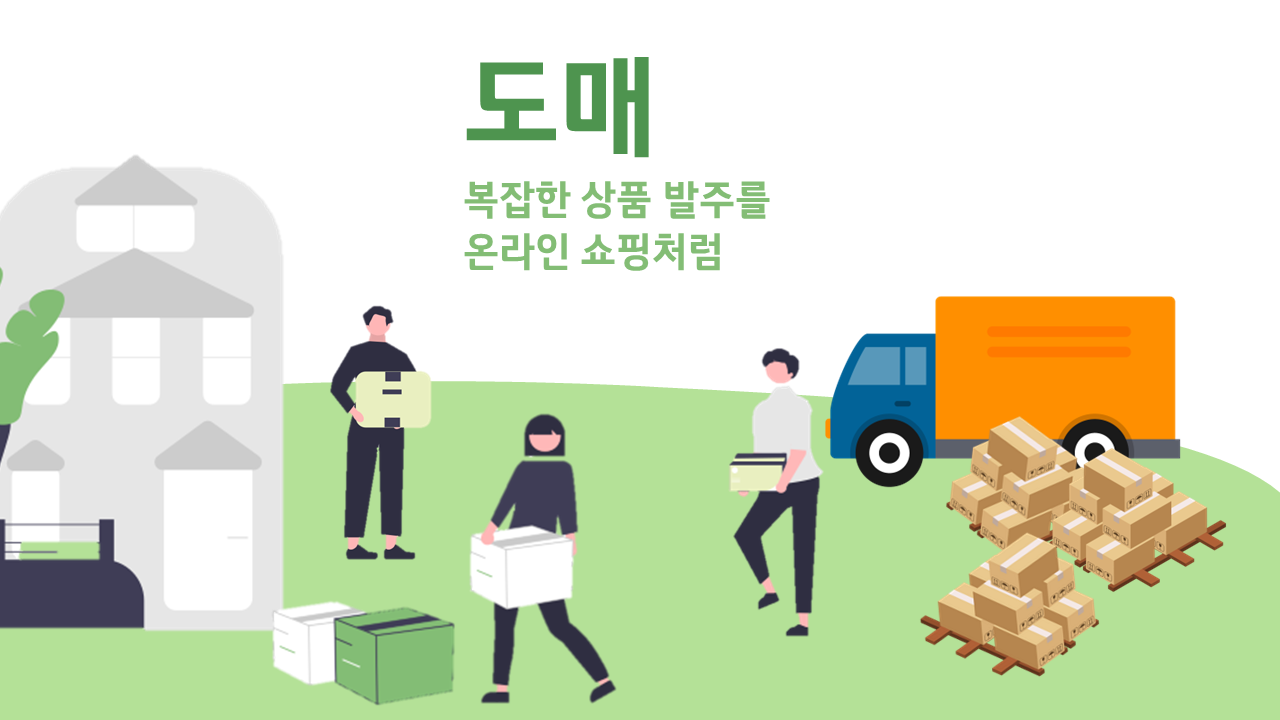
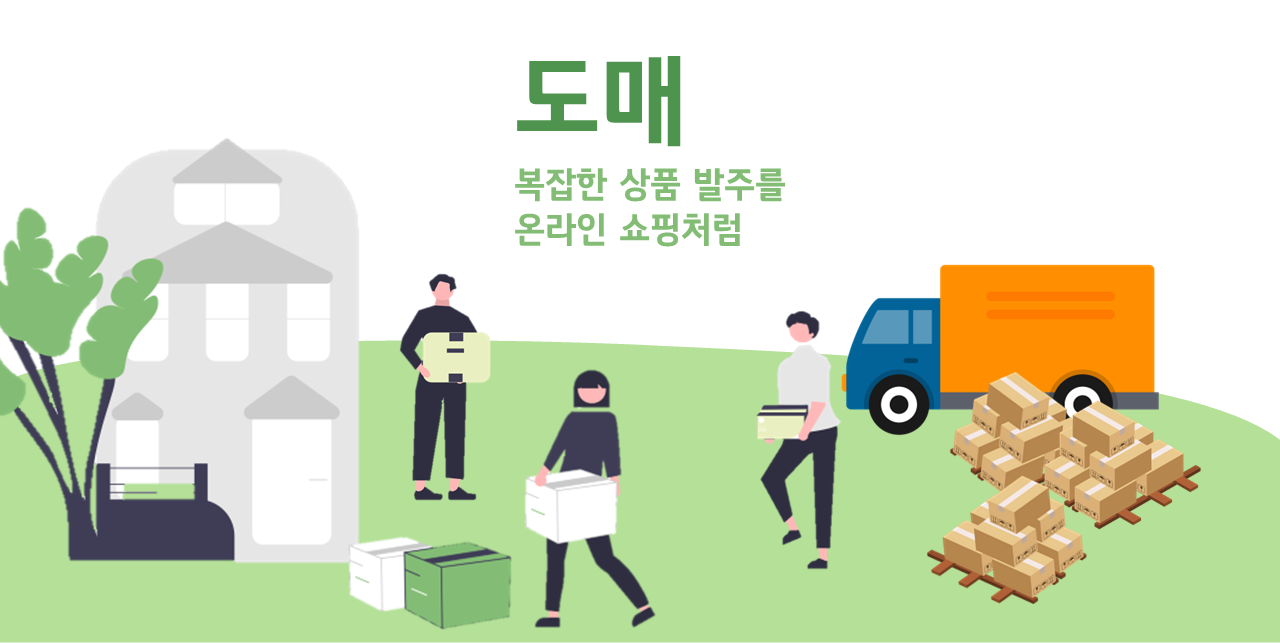
배너 비율 수정 및 버튼 디버그

diff --git a/src/views/home/home.css b/src/views/home/home.css
@@ -27,6 +27,10 @@ header .subTitle {
 }
 
 /* 메인 배너 */
+.main{
+  width: 100vw;
+  height: 100%;
+}
 .slider{
   width: 1280px;
   height: 720px;
@@ -54,8 +58,13 @@ header .subTitle {
   cursor: pointer;
 }
 .left{
-  float: left;
+  position: absolute;
+  top: 50%;
+  left: 3%;
+  z-index: 100;
 }
 .right{
-  float: right;
+  position: absolute;
+  top: 50%;
+  right: 3%;
 }
